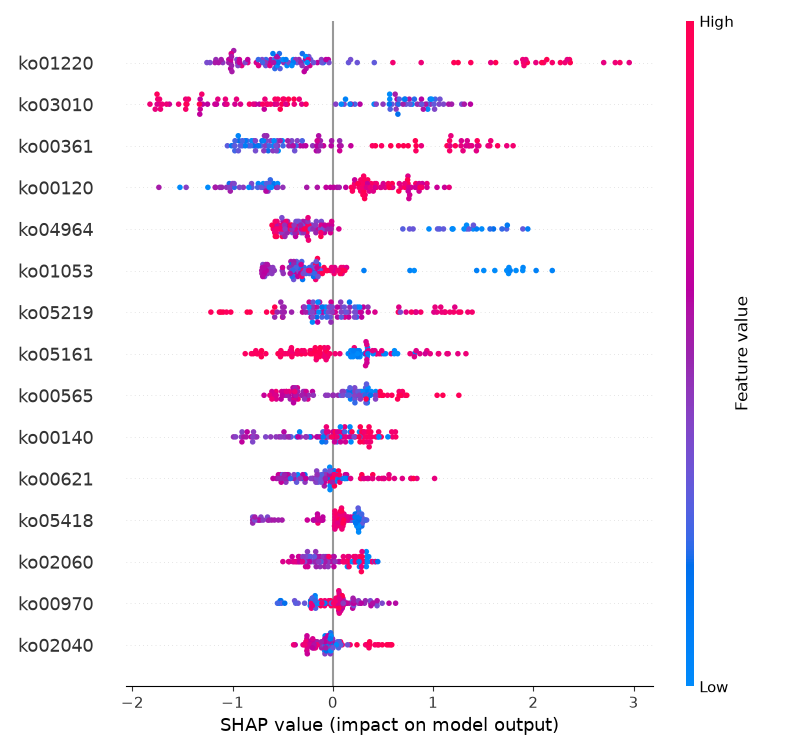
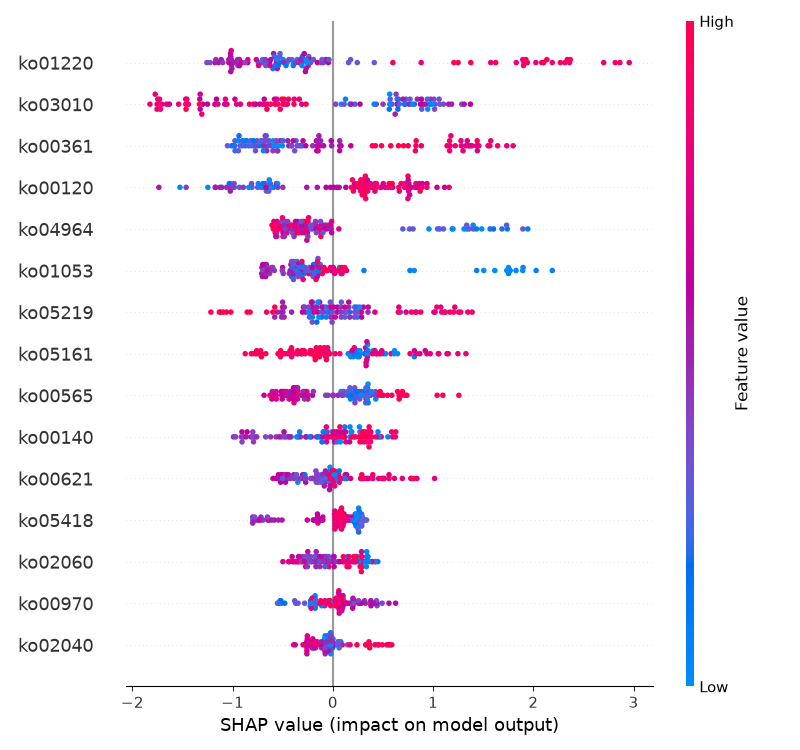
Undated demo files

diff --git a/app.py b/app.py
@@ -1,5 +1,6 @@
 import json
 import os
+import joblib
 import pandas as pd
 import streamlit as st
 from xgboost import XGBClassifier
@@ -68,6 +69,7 @@ elif page == "Interactive Predictor":
 
     model_path = os.path.join(OUTPUT_DIR, "xgboost_model.json")
     feat_path = os.path.join(OUTPUT_DIR, "selected_features.json")
+    scaler_path = os.path.join(OUTPUT_DIR, "scaler.joblib")
     demo_path = os.path.join(OUTPUT_DIR, "demo_sample.json")
 
     if os.path.exists(model_path) and os.path.exists(feat_path):
@@ -76,6 +78,8 @@ elif page == "Interactive Predictor":
 
         with open(feat_path) as f:
             selected_features = json.load(f)
+
+        scaler = joblib.load(scaler_path) if os.path.exists(scaler_path) else None
 
         st.subheader("Choose Input Method")
         input_mode = st.radio(
@@ -87,27 +91,42 @@ elif page == "Interactive Predictor":
 
         if input_mode == "Use Demo Sample" and os.path.exists(demo_path):
             sample_df = pd.read_json(demo_path)
-            st.success("Loaded pre-formatted demo sample from validation cohort.")
+            st.success("Loaded pre-formatted CLR demo sample from validation cohort.")
 
         elif input_mode == "Upload Custom CSV/TSV":
             uploaded_file = st.file_uploader(
-                "Upload TSV/CSV file (Rows = Pathways, Columns = Abundance)",
+                "Upload CLR-transformed TSV/CSV file",
                 type=["tsv", "csv", "txt"],
             )
             if uploaded_file:
-                sep = "\t" if uploaded_file.name.endswith(".tsv") else ","
-                user_df = pd.read_csv(uploaded_file, sep=sep, index_col=0).T
+                sep = "\t" if uploaded_file.name.endswith(".tsv") or uploaded_file.name.endswith(".txt") else ","
+                user_df = pd.read_csv(uploaded_file, sep=sep, index_col=0)
+                
+                # Transpose if pathways are in rows instead of columns
+                if not any(feat in user_df.columns for feat in selected_features):
+                    user_df = user_df.T
+                
                 sample_df = user_df.reindex(
                     columns=selected_features, fill_value=0
-                )
+                ).iloc[0:1]
 
         if sample_df is not None:
-            st.subheader("Input Feature Abundances")
+            st.subheader("Input CLR Feature Abundances (Unscaled)")
             st.dataframe(sample_df, use_container_width=True)
 
             if st.button("🚀 Run Prediction"):
-                prob = clf.predict_proba(sample_df)[0][1]
-                pred_class = clf.predict(sample_df)[0]
+                # Apply Discovery cohort Z-score scaling before prediction
+                if scaler is not None:
+                    sample_scaled = pd.DataFrame(
+                        scaler.transform(sample_df),
+                        columns=selected_features,
+                        index=sample_df.index,
+                    )
+                else:
+                    sample_scaled = sample_df
+
+                prob = clf.predict_proba(sample_scaled)[0][1]
+                pred_class = clf.predict(sample_scaled)[0]
 
                 st.subheader("Prediction Result")
                 col1, col2 = st.columns(2)
@@ -125,5 +144,5 @@ elif page == "Interactive Predictor":
                     st.progress(float(prob))
     else:
         st.warning(
-            "Model files not found. Please ensure results_dir/ contains xgboost_model.json."
+            "Model files not found. Please ensure results_dir/ contains xgboost_model.json and scaler.joblib."
         )
